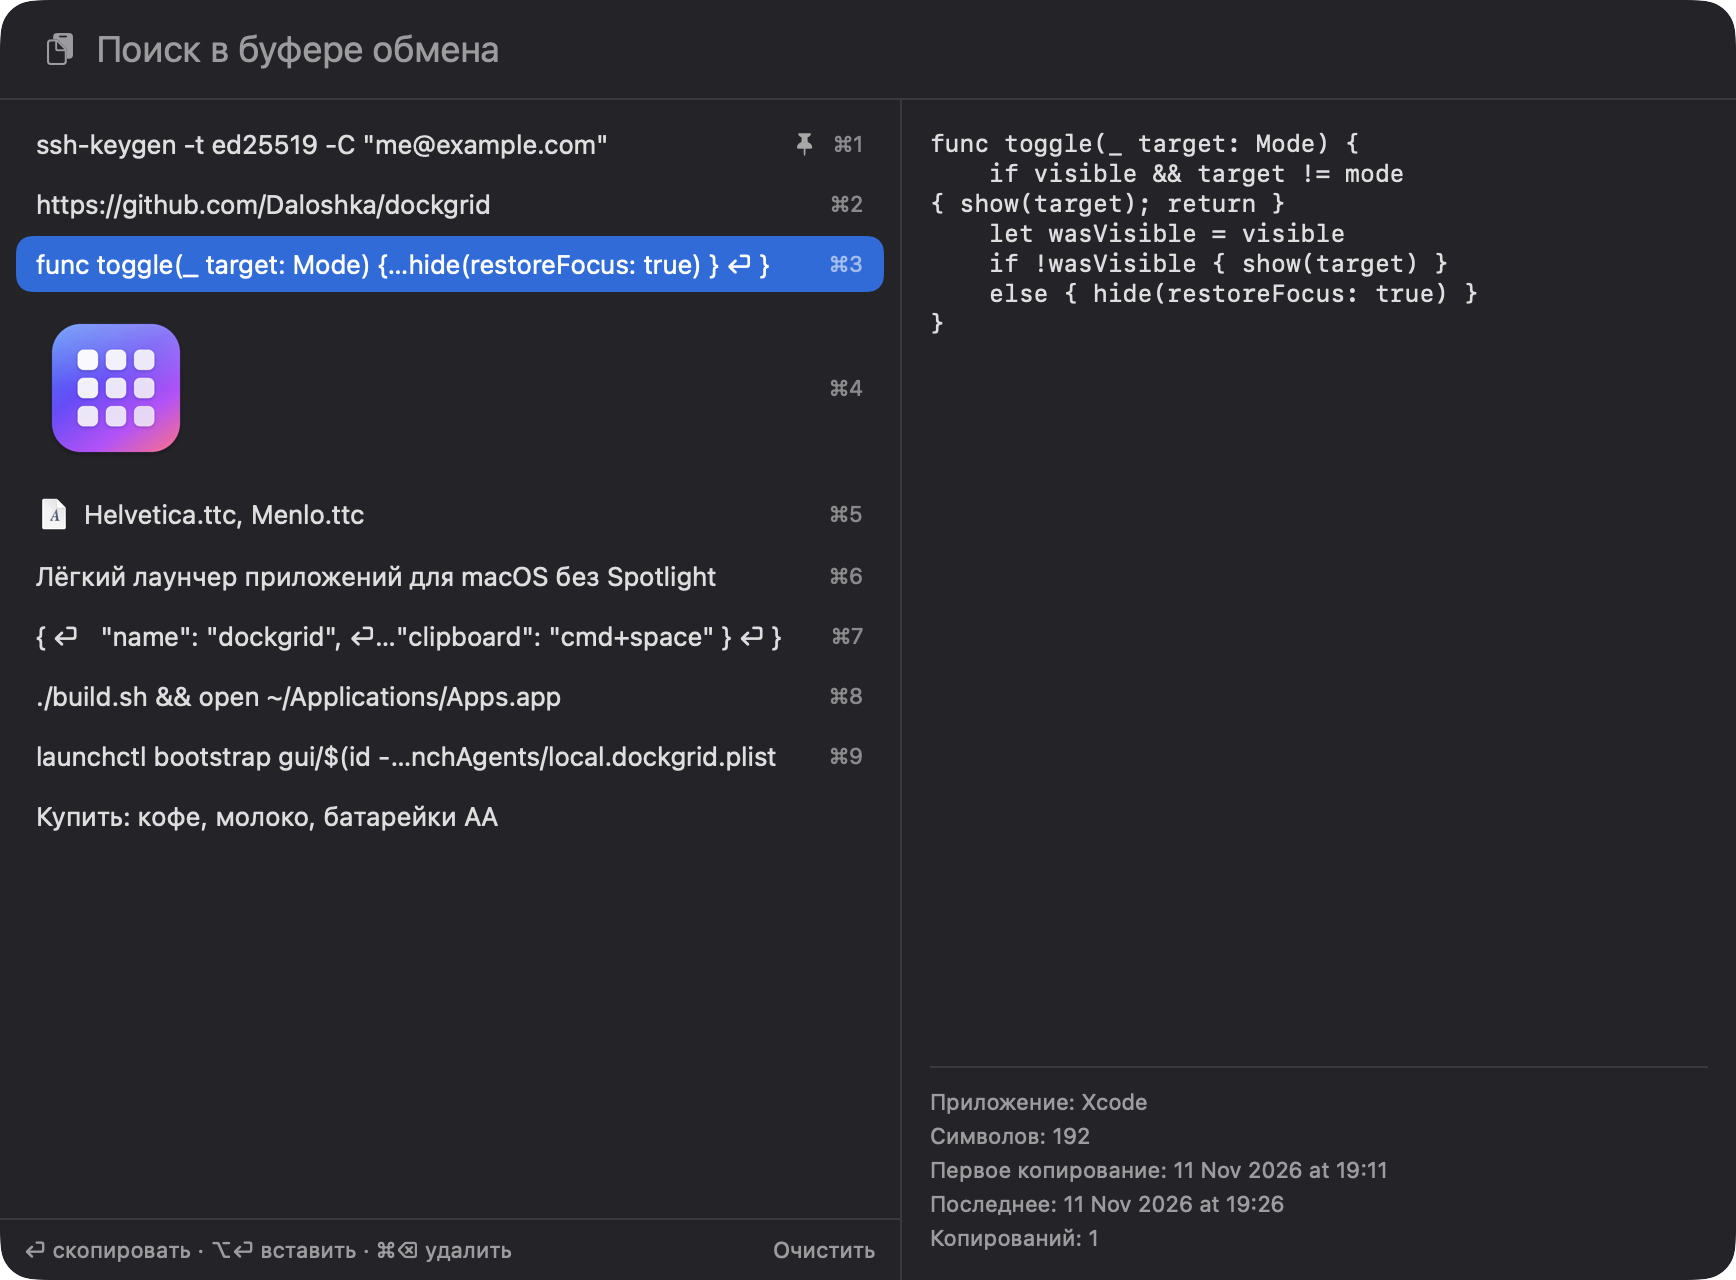
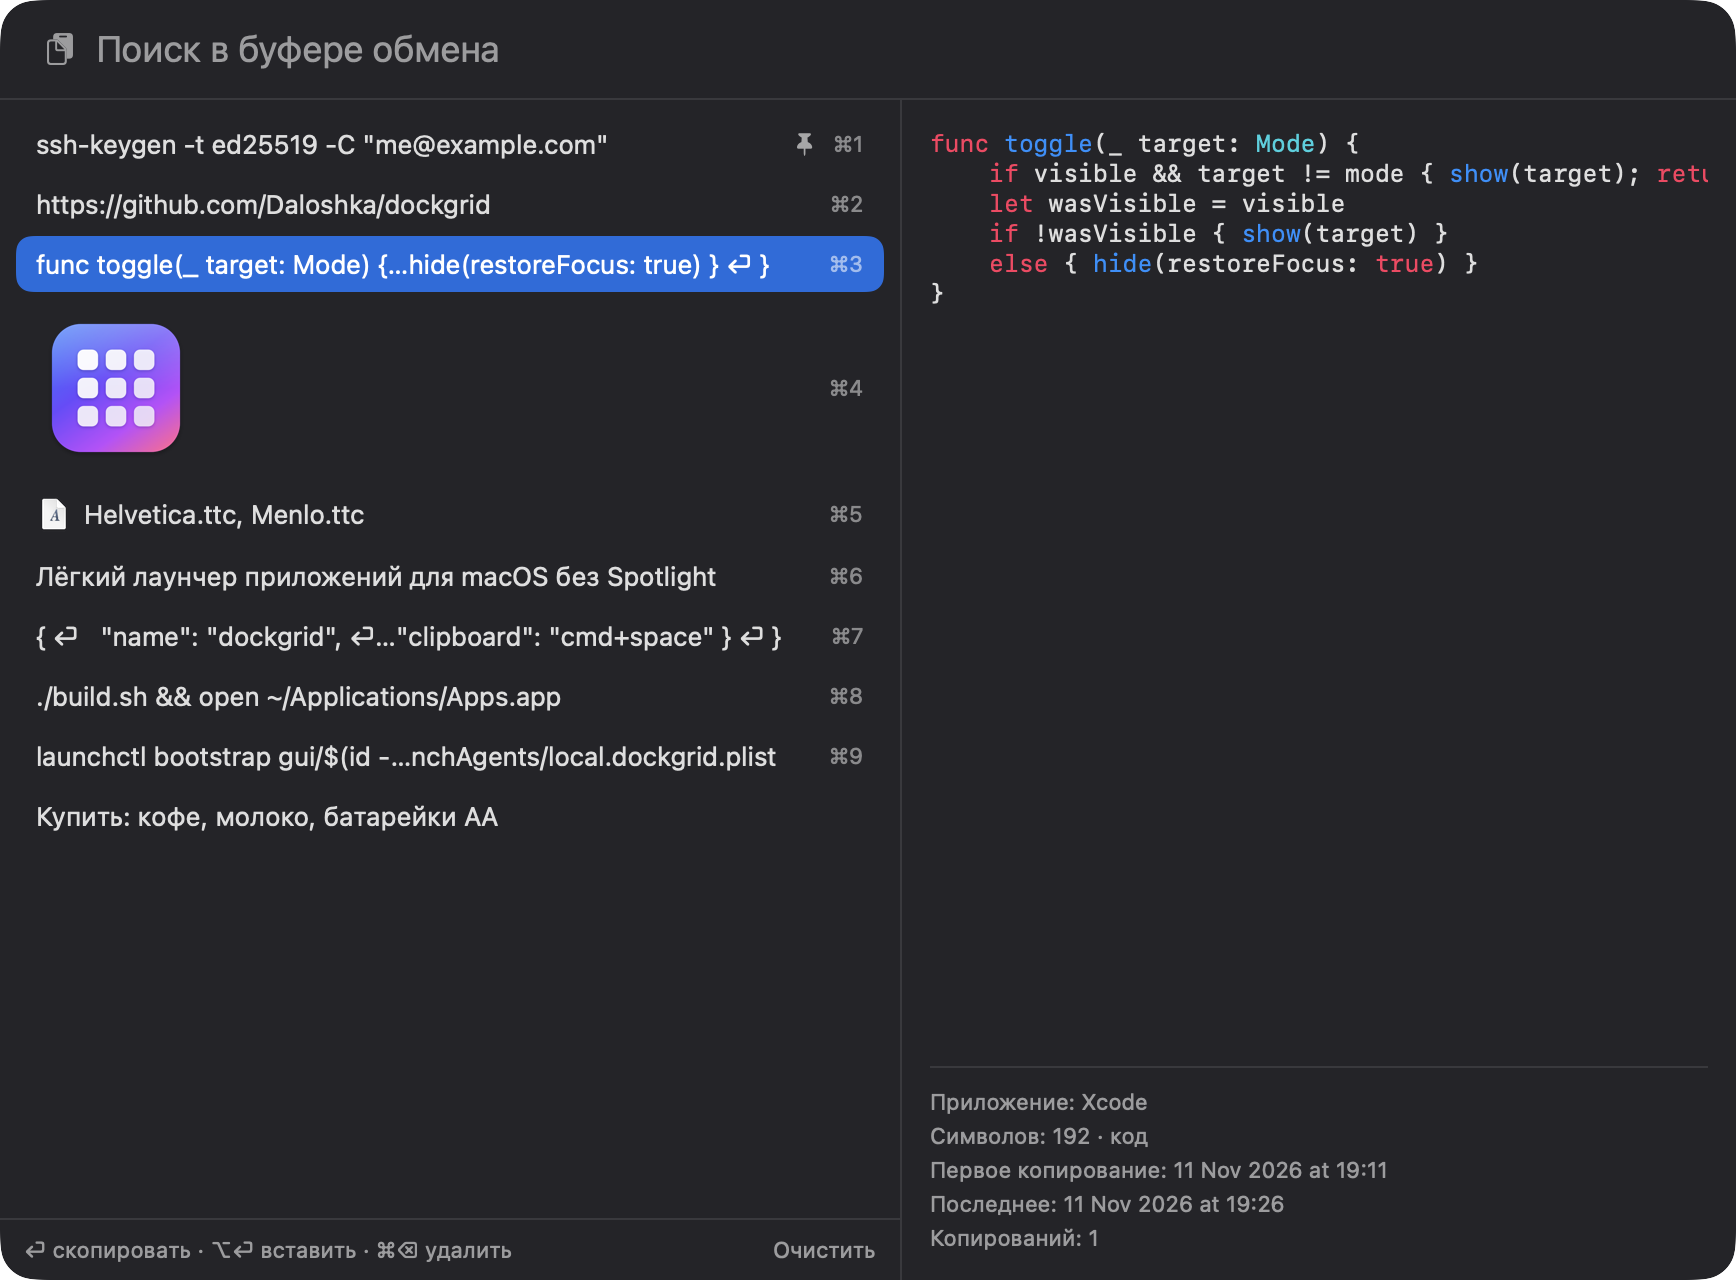
Буфер обмена: распознавание и подсветка кода в предпросмотре
- Добавлено: текст, похожий на код (включая JSON и SQL), подсвечивается — ключевые слова, строки, комментарии, числа, типы, вызовы; у записи пометка «код».
- Изменено: строки кода в предпросмотре не переносятся, а прокручиваются вбок.
- Изменено: docs/demo.gif и docs/clipboard.png пересняты с подсветкой; README дополнен.

Проверка: детектор на 12 примерах (код и обычный текст) без ошибок; полная сборка swiftc без ошибок и предупреждений; отрисовка проверена на демо-сборке. Установленное приложение не пересобиралось.

diff --git a/Highlight.swift b/Highlight.swift
@@ -1,0 +1,119 @@
+// Распознавание кода в тексте из буфера и его подсветка в предпросмотре.
+// Без словарей языков и сторонних библиотек: один проход по символам, общие для
+// большинства языков лексемы (строки, комментарии, числа, ключевые слова, типы, вызовы).
+import AppKit
+import SwiftUI
+
+enum Code {
+    private static let keywords: Set<String> = [
+        "func", "let", "var", "if", "else", "for", "while", "return", "import", "class", "struct", "enum",
+        "protocol", "extension", "guard", "switch", "case", "default", "break", "continue", "in", "do", "try",
+        "catch", "throw", "throws", "async", "await", "static", "private", "public", "internal", "fileprivate",
+        "final", "override", "init", "self", "nil", "true", "false", "def", "lambda", "None", "True", "False",
+        "elif", "from", "as", "with", "pass", "yield", "const", "function", "new", "this", "null", "undefined",
+        "typeof", "export", "interface", "type", "extends", "implements", "package", "go", "defer", "chan",
+        "map", "range", "select", "void", "int", "char", "float", "double", "bool", "string", "unsigned",
+        "long", "short", "namespace", "using", "template", "typename", "fn", "mut", "impl", "trait", "pub",
+        "use", "match", "where", "then", "fi", "done", "esac", "and", "or", "not", "is",
+        "SELECT", "FROM", "WHERE", "INSERT", "INTO", "UPDATE", "DELETE", "JOIN", "ON", "CREATE", "TABLE",
+        "ALTER", "DROP", "AND", "OR", "NOT", "NULL", "AS", "ORDER", "BY", "GROUP", "LIMIT", "VALUES", "SET",
+    ]
+    /// Слова, с которых обычно начинается строка кода.
+    private static let lineStarters: Set<String> = [
+        "func", "def", "class", "struct", "enum", "import", "from", "let", "var", "const", "return", "if",
+        "for", "while", "switch", "case", "public", "private", "static", "package", "fn", "impl", "use",
+        "function", "export", "type", "interface", "guard", "else", "try", "catch", "protocol", "extension",
+        "SELECT", "INSERT", "UPDATE", "CREATE", "ALTER", "#include", "#define", "#import", "#!/bin/sh",
+    ]
+    private static let operators = ["->", "=>", "==", "!=", "&&", "||", ":=", "::", "+=", "</", "/>"]
+
+    /// Похоже ли на код. Проверяются первые 200 строк.
+    static func looksLikeCode(_ text: String) -> Bool {
+        let trimmed = text.trimmingCharacters(in: .whitespacesAndNewlines)
+        guard trimmed.count >= 8 else { return false }
+        if let first = trimmed.first, let last = trimmed.last,
+           (first == "{" && last == "}") || (first == "[" && last == "]"), trimmed.contains("\":") {
+            return true  // JSON
+        }
+        var lines = 0, starters = 0, structural = 0
+        for raw in trimmed.split(separator: "\n", omittingEmptySubsequences: true).prefix(200) {
+            let line = raw.trimmingCharacters(in: .whitespaces)
+            guard !line.isEmpty else { continue }
+            lines += 1
+            let head = line.prefix { !$0.isWhitespace && $0 != "(" && $0 != "{" && $0 != ":" }
+            if lineStarters.contains(String(head)) || (line.hasPrefix("@") && head.count > 1) { starters += 1 }
+            if let end = line.last, "{};".contains(end) { structural += 1 }
+            else if operators.contains(where: { line.contains($0) }) || hasCall(line) { structural += 1 }
+        }
+        guard structural >= 1 else { return false }
+        if lines == 1 { return starters == 1 }
+        return starters + structural >= 3 && (starters + structural) * 2 >= lines
+    }
+
+    /// Есть ли вызов вида `name(` — скобка сразу после идентификатора.
+    private static func hasCall(_ line: String) -> Bool {
+        var prev: Character = " "
+        for ch in line {
+            if ch == "(" && (prev.isLetter || prev == "_") && prev.isASCII { return true }
+            prev = ch
+        }
+        return false
+    }
+
+    static func highlight(_ text: String) -> AttributedString {
+        let s = Array(text)
+        let n = s.count
+        var out = AttributedString()
+        var plain = ""
+        func flush() {
+            if !plain.isEmpty { out.append(AttributedString(plain)); plain = "" }
+        }
+        func emit(_ from: Int, _ to: Int, _ color: NSColor) {
+            flush()
+            var part = AttributedString(String(s[from..<to]))
+            part.foregroundColor = Color(nsColor: color)
+            out.append(part)
+        }
+        func isIdent(_ c: Character) -> Bool { c.isLetter || c.isNumber || c == "_" }
+
+        var i = 0
+        while i < n {
+            let c = s[i]
+            let next: Character? = i + 1 < n ? s[i + 1] : nil
+            let lineStart = i == 0 || s[i - 1] == "\n" || s[i - 1] == " " || s[i - 1] == "\t"
+            if c == "/" && next == "/" || (c == "#" && lineStart && (next == " " || next == "!"))
+                || (c == "-" && next == "-" && lineStart) {
+                var j = i
+                while j < n && s[j] != "\n" { j += 1 }
+                emit(i, j, .secondaryLabelColor); i = j
+            } else if c == "/" && next == "*" {
+                var j = i + 2
+                while j < n && !(s[j] == "/" && s[j - 1] == "*" && j > i + 2) { j += 1 }
+                j = min(j + 1, n)
+                emit(i, j, .secondaryLabelColor); i = j
+            } else if c == "\"" || c == "'" || c == "`" {
+                var j = i + 1
+                while j < n && s[j] != c && (c == "`" || s[j] != "\n") { j += s[j] == "\\" ? 2 : 1 }
+                j = min(j + 1, n)
+                emit(i, j, .systemOrange); i = j
+            } else if c.isNumber && c.isASCII && (i == 0 || !isIdent(s[i - 1])) {
+                var j = i
+                while j < n && (isIdent(s[j]) || s[j] == ".") { j += 1 }
+                emit(i, j, .systemPurple); i = j
+            } else if c.isLetter || c == "_" || c == "#" || c == "@" {
+                var j = i + 1
+                while j < n && isIdent(s[j]) { j += 1 }
+                let word = String(s[i..<j])
+                if keywords.contains(word) || ((c == "#" || c == "@") && j > i + 1) { emit(i, j, .systemPink) }
+                else if j < n && s[j] == "(" { emit(i, j, .systemBlue) }
+                else if c.isUppercase && c.isASCII && word.count > 1 { emit(i, j, .systemTeal) }
+                else { plain += word }
+                i = j
+            } else {
+                plain.append(c); i += 1
+            }
+        }
+        flush()
+        return out
+    }
+}

diff --git a/Clipboard.swift b/Clipboard.swift
@@ -233,6 +233,16 @@ final class ClipModel: ObservableObject {
     var onClose: ((_ restoreFocus: Bool) -> Void)?
     let store = ClipStore.shared
     private var thumbs: [String: NSImage] = [:]
+    private var codeCache: (id: String, text: AttributedString?)?
+
+    /// Подсвеченный текст записи, если она похожа на код; иначе nil. Хранится только для последней записи.
+    func code(_ item: ClipItem) -> AttributedString? {
+        if let hit = codeCache, hit.id == item.id { return hit.text }
+        let text = String((item.text ?? "").prefix(20_000))
+        let result = Code.looksLikeCode(text) ? Code.highlight(text) : nil
+        codeCache = (item.id, result)
+        return result
+    }
 
     var visible: [ClipItem] {
         let q = query.trimmingCharacters(in: .whitespaces)
@@ -350,10 +360,20 @@ struct ClipPreview: View {
             Group {
                 switch item.kind {
                 case .text:
-                    ScrollView {
-                        Text(String((item.text ?? "").prefix(20_000)))
-                            .font(.system(size: 12, design: .monospaced))
-                            .frame(maxWidth: .infinity, alignment: .leading)
+                    if let code = model.code(item) {
+                        // Код не переносим по ширине: длинные строки прокручиваются вбок.
+                        ScrollView([.vertical, .horizontal]) {
+                            Text(code).font(.system(size: 12, design: .monospaced))
+                                .fixedSize(horizontal: true, vertical: true)
+                        }
+                        .defaultScrollAnchor(.topLeading)
+                        .frame(maxWidth: .infinity, alignment: .leading)
+                    } else {
+                        ScrollView {
+                            Text(String((item.text ?? "").prefix(20_000)))
+                                .font(.system(size: 12, design: .monospaced))
+                                .frame(maxWidth: .infinity, alignment: .leading)
+                        }
                     }
                 case .files:
                     ScrollView {
@@ -378,7 +398,7 @@ struct ClipPreview: View {
             VStack(alignment: .leading, spacing: 3) {
                 if let app = item.app { Text("Приложение: \(app)") }
                 if item.kind == .image { Text("Размер: \(item.width ?? 0)×\(item.height ?? 0)") }
-                if item.kind == .text { Text("Символов: \((item.text ?? "").count)") }
+                if item.kind == .text { Text("Символов: \((item.text ?? "").count)" + (model.code(item) == nil ? "" : " · код")) }
                 Text("Первое копирование: \(item.firstDate.formatted(date: .abbreviated, time: .shortened))")
                 Text("Последнее: \(item.date.formatted(date: .abbreviated, time: .shortened))")
                 Text("Копирований: \(item.count)")

diff --git a/README.md b/README.md
@@ -21,6 +21,7 @@
 
 - Запоминает скопированный текст, файлы и изображения (до 200 записей, закреплённые не вытесняются); повтор поднимает запись наверх.
 - Открывается хоткеем (Cmd+Space в примере): список с поиском слева, предпросмотр и сведения о записи справа.
+- Текст, похожий на код (в том числе JSON и SQL), в предпросмотре подсвечивается: ключевые слова, строки, комментарии, числа, типы и вызовы; длинные строки не переносятся, а прокручиваются вбок.
 - Enter или клик — скопировать запись обратно в буфер; Option+Enter — скопировать и вставить (нужно разрешение Accessibility для `Apps.app`, после пересборки его выдают заново).
 - Cmd+1…9 — быстрый выбор, Cmd+Backspace — удалить, правый клик — закрепить, удалить, показать файл в Finder.
 - Записи, помеченные менеджерами паролей как скрытые (`org.nspasteboard.ConcealedType` и подобные), в историю не попадают.
@@ -74,7 +75,7 @@ launchctl bootstrap gui/$(id -u) ~/Library/LaunchAgents/local.dockgrid.plist
 
 ## Устройство
 
-- `main.swift` — окно-панель, режимы и переключение; `Launcher.swift` — сетка приложений; `Clipboard.swift` — история буфера (опрос `NSPasteboard.changeCount` раз в 0,5 с); `Hotkeys.swift` — глобальные хоткеи.
+- `main.swift` — окно-панель, режимы и переключение; `Launcher.swift` — сетка приложений; `Clipboard.swift` — история буфера (опрос `NSPasteboard.changeCount` раз в 0,5 с); `Highlight.swift` — распознавание и подсветка кода; `Hotkeys.swift` — глобальные хоткеи.
 - Окно — `NSPanel` со стилем `nonactivatingPanel`: получает клавиатуру, не дожидаясь активации приложения.
 - Клик в Dock приходит как событие reopen, хоткей — как событие Carbon; оба ведут в один `toggle()`.
 - `tools/winvis.swift` — проверка, видно ли окно на экране (для тестов из терминала).
